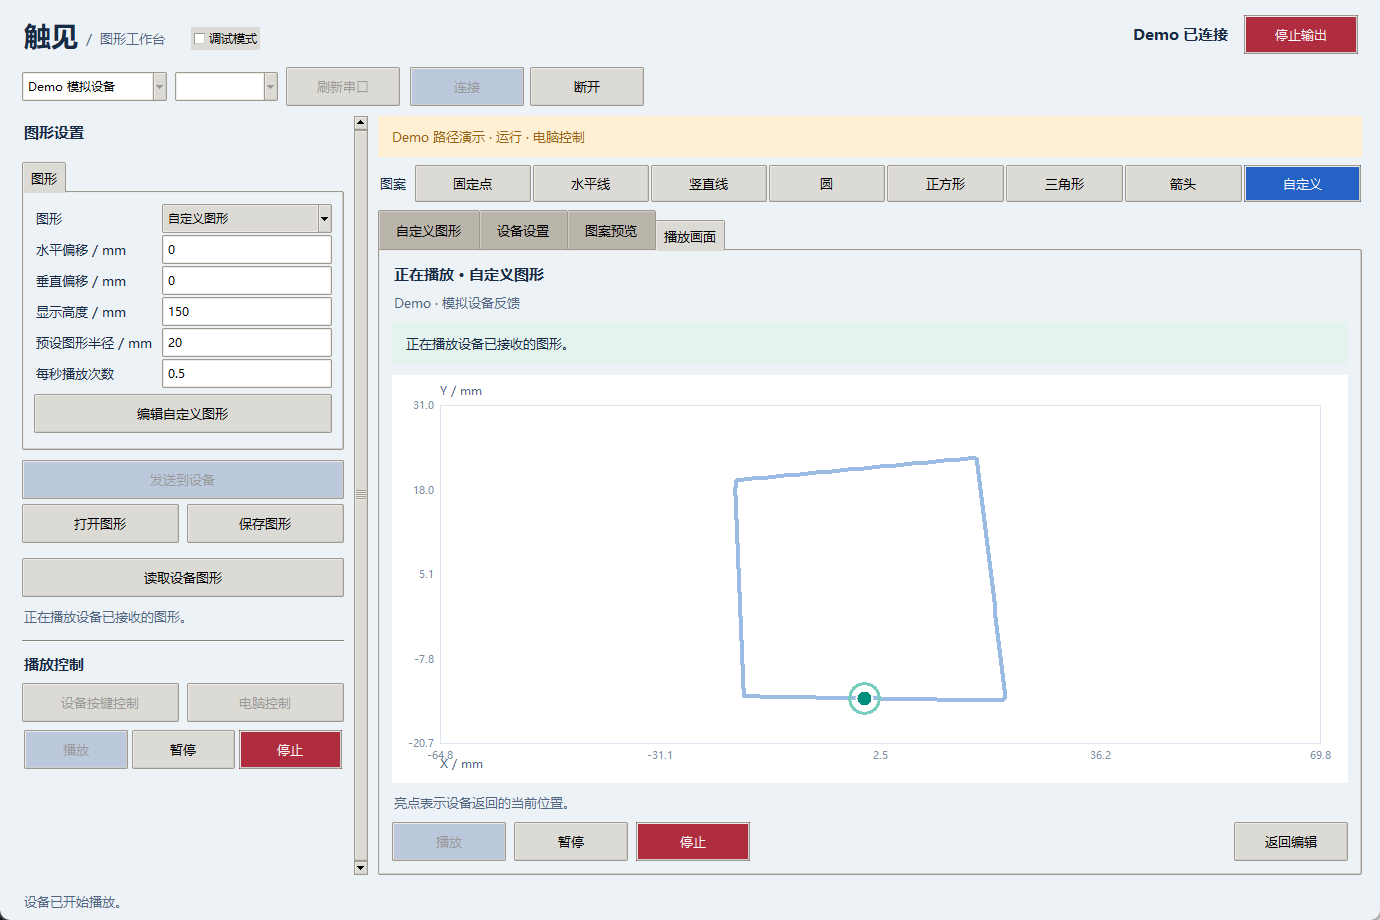
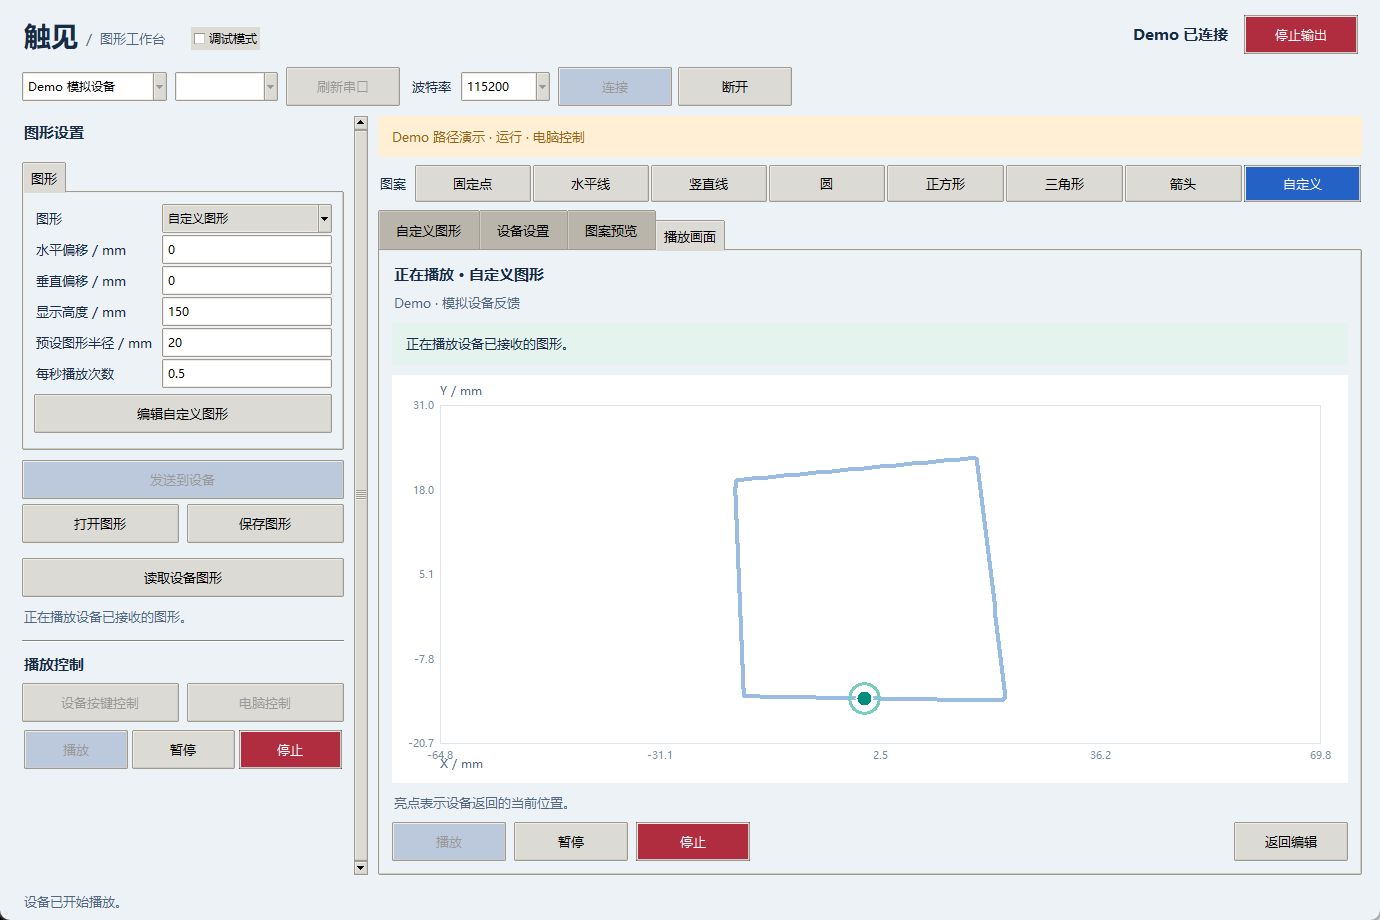
fix: expose baud rate in normal connection controls

Changed region(s): [[0.2804, 0.0609, 0.592, 0.1217]]

diff --git a/desktop_app/app.py b/desktop_app/app.py
@@ -419,13 +419,11 @@ class App:
         if enabled:
             self.hardware_detail.pack(fill="x", pady=(2, 5), before=self.tabs)
             self.actual_detail.pack(fill="x", pady=(2, 8), before=self.tabs)
-            self.baud_label.pack(side="left", before=self.connect_button)
-            self.baud_picker.pack(side="left", padx=8, before=self.connect_button)
             self.protocol_label.pack(side="right")
             self.demo_box.grid()
             self.device_details.pack(fill="x", pady=(18, 0))
         else:
-            for widget in (self.hardware_detail, self.actual_detail, self.baud_label, self.baud_picker, self.protocol_label, self.device_details):
+            for widget in (self.hardware_detail, self.actual_detail, self.protocol_label, self.device_details):
                 widget.pack_forget()
             self.demo_box.grid_remove()
         self.editor.set_debug(enabled)

diff --git a/desktop_app/README.md b/desktop_app/README.md
@@ -63,7 +63,7 @@ Demo 只在取快照时计算当前位置和相位，没有高速硬件时序。
 
 ## 真实设备与协议
 
-切换“真实串口”，选择 COM 端口后连接，默认 115200 baud；其他波特率可在调试模式设置。固件需实现 [HAP2 协议](PROTOCOL.md)。HAP2 使用坐标路径，拒绝旧 HAP1 固件，不自动回退为 Demo。
+切换“真实串口”，在顶部选择 COM 端口和波特率后连接，默认 115200 baud，需与板端设置一致。波特率在普通界面始终显示，连接真实设备前可修改；连接期间和 Demo 模式下不可修改，断开后可重新设置。固件需实现 [HAP2 协议](PROTOCOL.md)。HAP2 使用坐标路径，拒绝旧 HAP1 固件，不自动回退为 Demo。
 
 配置只能在电脑控制且待机时修改，控制来源只能在待机时切换。发送成功不代表状态已确认：客户端等待 ACK 和后续完整 STATE。REMOTE 断开尝试发送 STOP，失联后的关闭依赖板端看门狗；LOCAL 断开保留独立运行。界面状态未知时不能确认硬件已停。
 
